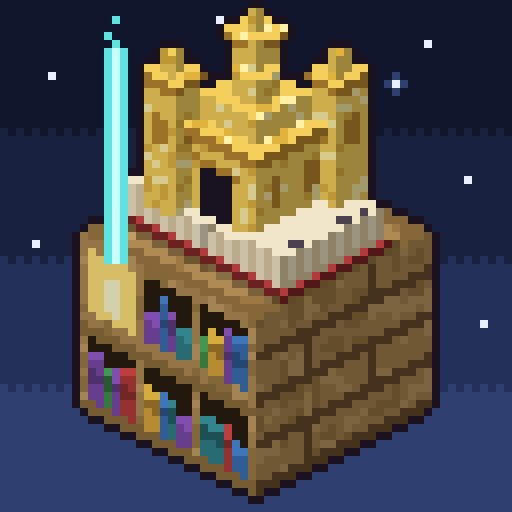
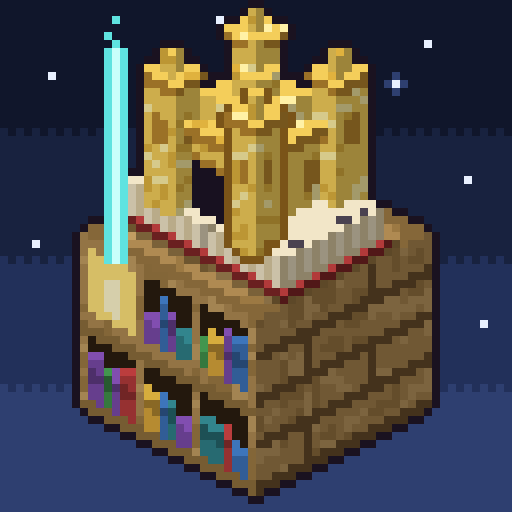
图标：补上前角的第四座塔，大门左移，塔与主殿之间描分界线

Changed region(s): [[0.4062, 0.1562, 0.5938, 0.5312], [0.375, 0.3125, 0.4062, 0.4062]]

diff --git a/art/icon/IconArt.java b/art/icon/IconArt.java
@@ -58,6 +58,9 @@ public final class IconArt {
 	static final List<Box> boxes = new ArrayList<>();
 	static final int[][] px = new int[N][N];
 	static final boolean[][] obj = new boolean[N][N];
+	// 每个像素是哪个方块画的（boxes 里的下标，-1 = 背景）；前角那座塔的方块从 frontTower 开始
+	static final int[][] owner = new int[N][N];
+	static int frontTower = Integer.MAX_VALUE;
 
 	public static void main(String[] args) throws IOException {
 		if (args.length == 1 && args[0].equals("draw")) {
@@ -76,6 +79,7 @@ public final class IconArt {
 		sky();
 		scene();
 		rasterize();
+		separateFrontTower();
 		shadowOnShelfTop();
 		outline();
 		beam();
@@ -97,9 +101,12 @@ public final class IconArt {
 		boxes.add(new Box(5.5, 5.5, z + 8, 10.5, 10.5, z + 10, gold));         // 第二级屋顶
 		boxes.add(new Box(6.75, 6.75, z + 10, 9.25, 9.25, z + 12, gold));      // 第三级
 		boxes.add(new Box(7.5, 7.5, z + 12, 8.5, 8.5, z + 15, gold));          // 顶尖
-		// 三座塔：后、左、右各一，正前方那个角空着，不挡门
-		for (double[] c : new double[][]{{3, 3}, {10.5, 3}, {3, 10.5}}) {
+		// 四座角塔：主殿四个角各一座
+		for (double[] c : new double[][]{{3, 3}, {10.5, 3}, {3, 10.5}, {10.5, 10.5}}) {
 			double x = c[0], y = c[1];
+			if (x > 10 && y > 10) {
+				frontTower = boxes.size(); // 前角这座挡在主殿正前方，要和后面描一道分界（见 separateFrontTower）
+			}
 			boxes.add(new Box(x, y, z, x + 2.5, y + 2.5, z + 11, IconArt::tower));
 			boxes.add(new Box(x - 0.25, y - 0.25, z + 11, x + 2.75, y + 2.75, z + 12, IconArt::trim));
 			boxes.add(new Box(x + 0.75, y + 0.75, z + 12, x + 1.75, y + 1.75, z + 14, gold));
@@ -200,8 +207,8 @@ public final class IconArt {
 	/** 主殿：左面（正面）开一扇大门，右面两扇小窗。 */
 	static int hall(Face face, double u, double v) {
 		if (face == Face.LEFT) {
-			if (u > 6.5 && u < 9.5 && v < Z0 + 4.5) return DOOR;
-			if (u > 6 && u < 10 && v >= Z0 + 4.5 && v < Z0 + 5.3) return GOLD_EDGE; // 门楣
+			if (u > 5.5 && u < 8.3 && v < Z0 + 4.5) return DOOR; // 偏左一点：右边被前角的塔挡着
+			if (u > 5 && u < 8.8 && v >= Z0 + 4.5 && v < Z0 + 5.3) return GOLD_EDGE; // 门楣
 		} else if (face == Face.RIGHT) {
 			boolean window = (u > 5.6 && u < 6.9 || u > 9.1 && u < 10.4) && v > Z0 + 2.5 && v < Z0 + 4.8;
 			if (window) return GOLD_EDGE; // 窗用暗金不用黑，缩小后才不会和门凑成一张脸
@@ -226,7 +233,10 @@ public final class IconArt {
 	static void rasterize() {
 		double[][] depth = new double[N][N];
 		for (double[] row : depth) java.util.Arrays.fill(row, Double.NEGATIVE_INFINITY);
-		for (Box b : boxes) {
+		for (int[] row : owner) java.util.Arrays.fill(row, -1);
+		for (int i = 0; i < boxes.size(); i++) {
+			Box b = boxes.get(i);
+			current = i;
 			for (int y = 0; y < N; y++) {
 				for (int x = 0; x < N; x++) {
 					double a = (x + 0.5 - CX) / K;           // X - Y
@@ -258,12 +268,42 @@ public final class IconArt {
 		return value >= lo && value < hi;
 	}
 
+	static int current; // rasterize 正在画的方块
+
 	static void plot(double[][] depth, int x, int y, double d, int rgb) {
 		if (d > depth[y][x]) {
 			depth[y][x] = d;
 			px[y][x] = rgb;
 			obj[y][x] = true;
+			owner[y][x] = current;
 		}
+	}
+
+	/**
+	 * 前角的塔和后面的主殿都是金色，挨在一起看不出是一座单独的塔：
+	 * 塔外紧挨着它的那一圈主殿像素压成深金色，当作分界线。
+	 */
+	static void separateFrontTower() {
+		boolean[][] line = new boolean[N][N];
+		for (int y = 0; y < N; y++) {
+			for (int x = 0; x < N; x++) {
+				if (owner[y][x] >= 0 && owner[y][x] < frontTower
+						&& (isFront(x - 1, y) || isFront(x + 1, y) || isFront(x, y - 1))) {
+					line[y][x] = true;
+				}
+			}
+		}
+		for (int y = 0; y < N; y++) {
+			for (int x = 0; x < N; x++) {
+				if (line[y][x]) px[y][x] = SEPARATOR;
+			}
+		}
+	}
+
+	static final int SEPARATOR = 0x7A5418;
+
+	static boolean isFront(int x, int y) {
+		return x >= 0 && y >= 0 && x < N && y < N && owner[y][x] >= frontTower;
 	}
 
 	/** 书在书架顶面上投下的影子：顶面上靠近书的一圈压暗。 */
